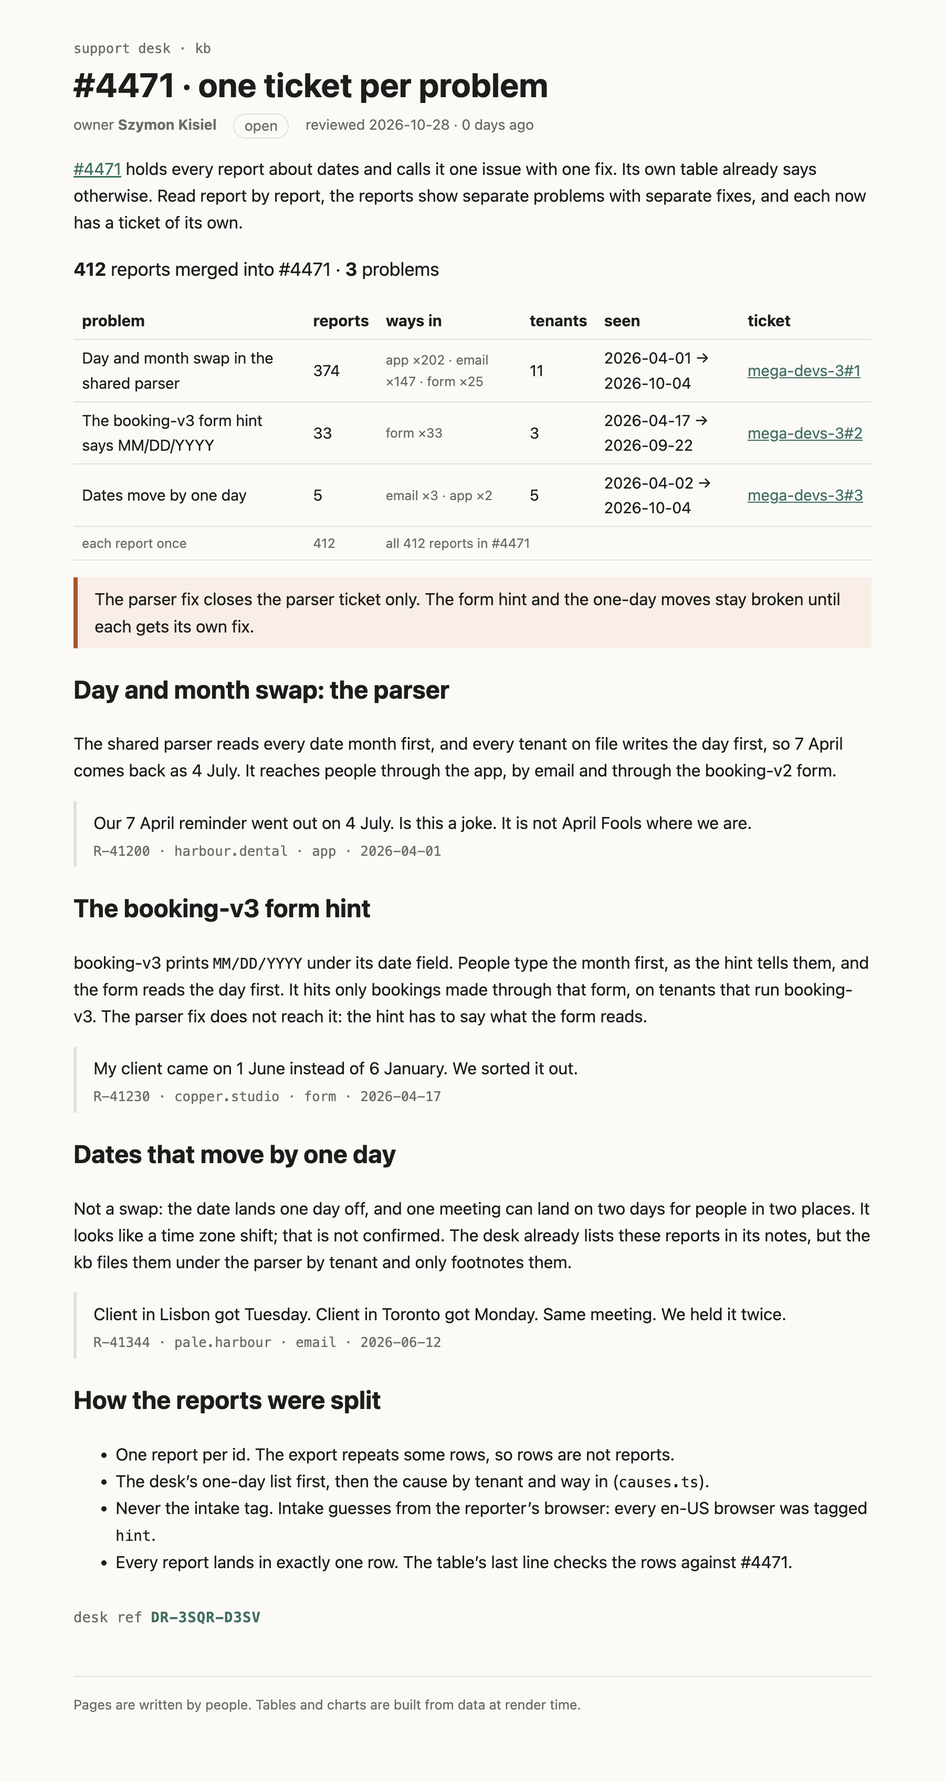
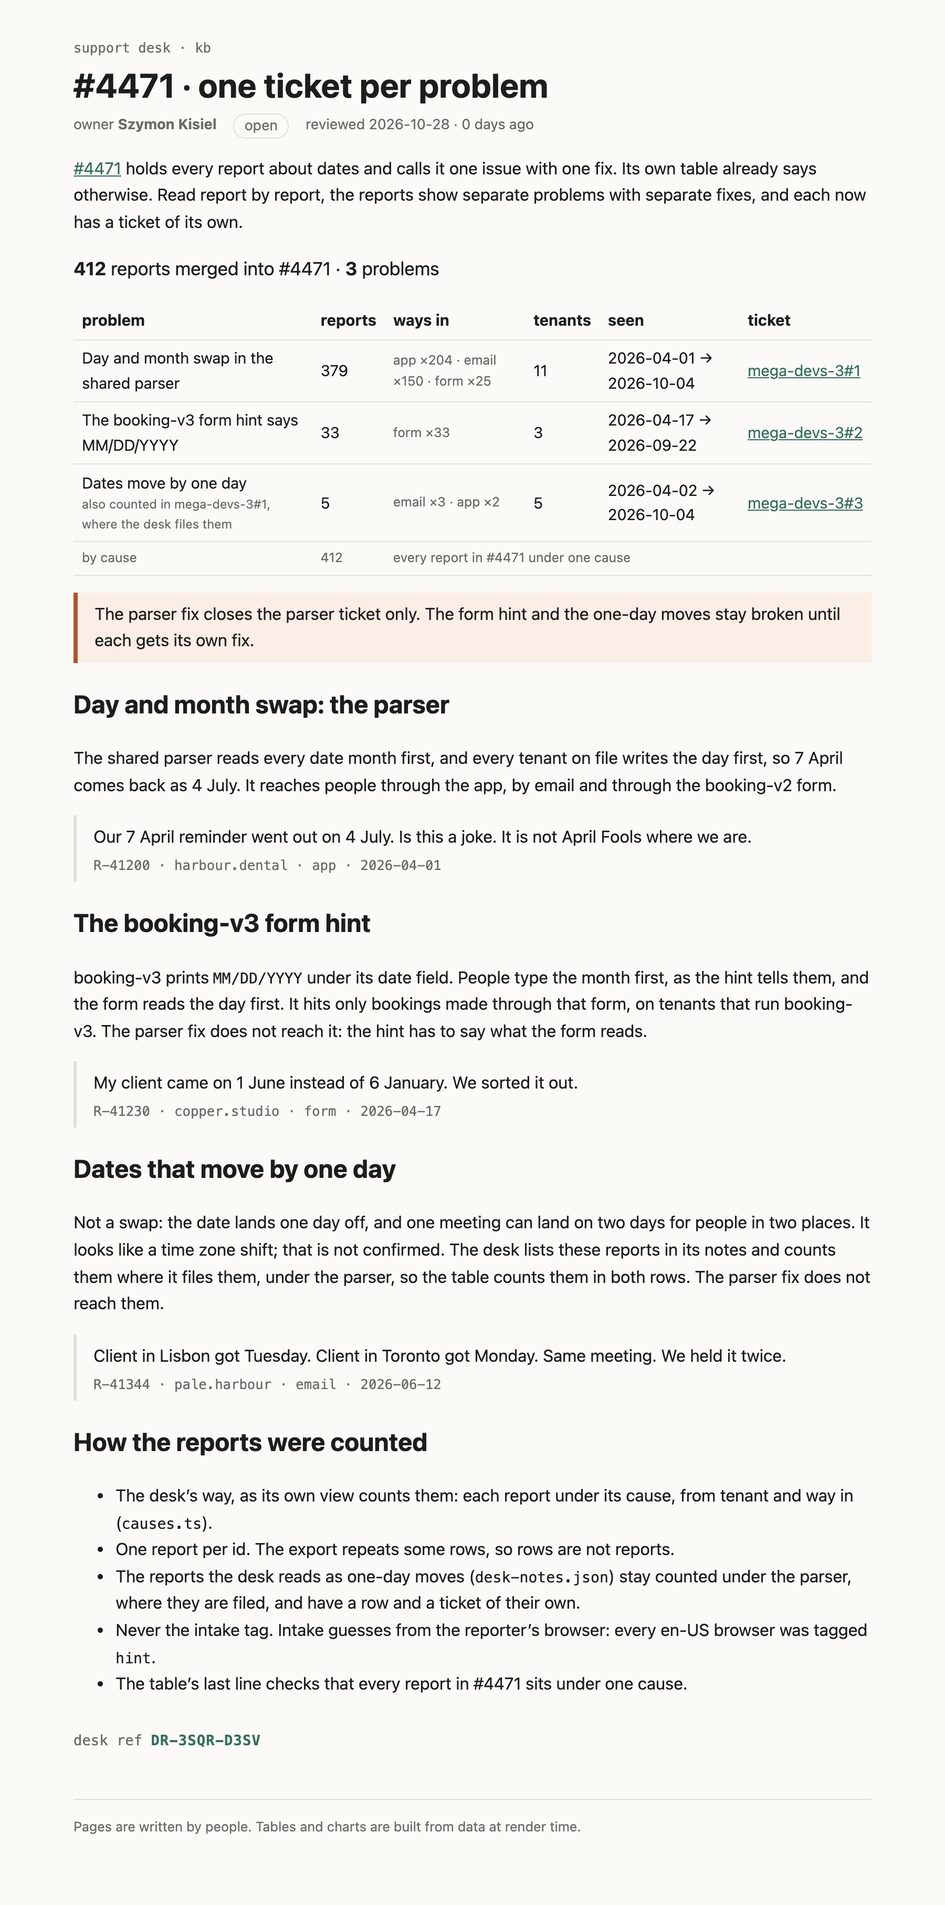
kb page: count the desk's way
The desk counts with its own view (CauseTable as exported): every report under its cause, and the reports it reads as one-day moves stay counted where they are filed, under the parser. The table now shows parser 379, booking-v3 hint 33 and one-day moves 5 (also counted in #1), all computed at render time. Rendered HTML and screenshot rebuilt; signature unchanged.

Changed region(s): [[0.0622, 0.0, 0.9333, 0.9688], [0.7778, 0.1562, 0.9022, 0.2812]]

diff --git a/rendered/kb/incidents/4471/problems.html b/rendered/kb/incidents/4471/problems.html
@@ -6,25 +6,26 @@
     <!--e2jw2j--><!----><title>#4471 · one ticket per problem · support kb</title>
 		<style>:root{--bg: #fbfaf7;--fg: #1d1d1b;--muted: #6b6a66;--line: #e3e0d8;--accent: #2f6f5e;--warn: #b4501f;--warn-bg: #fbeee6;--note-bg: #eef5f2;--mono: ui-monospace, "Cascadia Code", Menlo, monospace}@media(prefers-color-scheme:dark){:root{--bg: #171716;--fg: #ecebe6;--muted: #9c9a93;--line: #34332f;--accent: #6fbfa6;--warn: #f0905d;--warn-bg: #3a2418;--note-bg: #1d2c27}}body{margin:0;background:var(--bg);color:var(--fg);font:16px/1.6 system-ui,sans-serif}.kb table{border-collapse:collapse;width:100%;margin:1rem 0;font-size:.92rem}.kb th,.kb td{border-bottom:1px solid var(--line);padding:.35rem .5rem;text-align:left}.kb code{font-family:var(--mono);font-size:.88em}.kb a{color:var(--accent)}.kb.svelte-e2jw2j{max-width:760px;margin:0 auto;padding:2rem 16px 4rem}.crumb.svelte-e2jw2j{font:.8rem var(--mono);text-decoration:none;color:var(--muted)}h1.svelte-e2jw2j{margin:.25rem 0 .5rem;line-height:1.2}.meta.svelte-e2jw2j{display:flex;flex-wrap:wrap;gap:.5rem 1rem;color:var(--muted);font-size:.85rem;margin:0}.status.svelte-e2jw2j{border:1px solid var(--line);border-radius:99px;padding:0 .6rem}.stale.svelte-e2jw2j{color:var(--warn);font-weight:600}.banner.svelte-e2jw2j{background:var(--warn-bg);color:var(--warn);padding:.6rem 1rem;border-radius:6px}footer.svelte-e2jw2j{margin-top:3rem;color:var(--muted);font-size:.8rem;border-top:1px solid var(--line);padding-top:1rem}
 
-.sum.svelte-1op6c6{font-size:1.1rem}.ways.svelte-1op6c6{color:var(--muted);font-size:.85em}td.svelte-1op6c6:last-child{white-space:nowrap}tfoot.svelte-1op6c6 td:where(.svelte-1op6c6){color:var(--muted);font-size:.85em}.missing.svelte-1op6c6 td:where(.svelte-1op6c6){background:var(--warn-bg);color:var(--warn);font-weight:600}blockquote.svelte-slvyhz{margin:1rem 0;padding:.1rem 1rem;border-left:3px solid var(--line)}blockquote.svelte-slvyhz p:where(.svelte-slvyhz){margin:.4rem 0}.who.svelte-slvyhz{font:.8rem var(--mono);color:var(--muted)}.gone.svelte-slvyhz{color:var(--warn)}.stamp.svelte-1280m42{margin:2rem 0 0;font:.85rem var(--mono);color:var(--muted)}.stamp.svelte-1280m42 b:where(.svelte-1280m42){color:var(--accent);letter-spacing:.04em}.missing.svelte-1280m42{color:var(--warn)}
+.sum.svelte-1op6c6{font-size:1.1rem}.ways.svelte-1op6c6{color:var(--muted);font-size:.85em}.also.svelte-1op6c6{display:block;color:var(--muted);font-size:.8em}td.svelte-1op6c6:last-child{white-space:nowrap}tfoot.svelte-1op6c6 td:where(.svelte-1op6c6){color:var(--muted);font-size:.85em}.missing.svelte-1op6c6 td:where(.svelte-1op6c6){background:var(--warn-bg);color:var(--warn);font-weight:600}blockquote.svelte-slvyhz{margin:1rem 0;padding:.1rem 1rem;border-left:3px solid var(--line)}blockquote.svelte-slvyhz p:where(.svelte-slvyhz){margin:.4rem 0}.who.svelte-slvyhz{font:.8rem var(--mono);color:var(--muted)}.gone.svelte-slvyhz{color:var(--warn)}.stamp.svelte-1280m42{margin:2rem 0 0;font:.85rem var(--mono);color:var(--muted)}.stamp.svelte-1280m42 b:where(.svelte-1280m42){color:var(--accent);letter-spacing:.04em}.missing.svelte-1280m42{color:var(--warn)}
 
 aside.svelte-17bri61{border-left:4px solid var(--accent);padding:.5rem 1rem;margin:1rem 0;background:var(--note-bg)}aside.warn.svelte-17bri61{border-color:var(--warn);background:var(--warn-bg)}
 </style>
 		<link href="../../../_app/immutable/assets/runbook.BhhgOc_n.css" rel="stylesheet" disabled media="(max-width: 0)">
-		<link href="../../../_app/immutable/assets/_page.kYML7QCf.css" rel="stylesheet" disabled media="(max-width: 0)">
+		<link href="../../../_app/immutable/assets/_page.BCj69BPb.css" rel="stylesheet" disabled media="(max-width: 0)">
 		<link href="../../../_app/immutable/assets/Callout.yLErXQDM.css" rel="stylesheet" disabled media="(max-width: 0)">
   </head>
   <body>
     <div style="display: contents"><!--[--><!--[0--><!--[--><!--[--><div class="kb svelte-e2jw2j"><header><a class="crumb svelte-e2jw2j" href="/kb">support desk · kb</a> <h1 class="svelte-e2jw2j">#4471 · one ticket per problem</h1> <p class="meta svelte-e2jw2j"><span>owner <b>Szymon Kisiel</b></span> <span class="status open svelte-e2jw2j">open</span> <span class="svelte-e2jw2j">reviewed 2026-10-28 · 0 days ago</span></p></header> <!--[-1--><!--]--> <main><p><a href="/kb/incidents/4471">#4471</a> holds every report about dates and calls it one issue with one fix.
 Its own table already says otherwise. Read report by report, the reports show separate problems
-with separate fixes, and each now has a ticket of its own.</p> <p class="sum svelte-1op6c6"><strong>412</strong> reports merged into #4471 · <strong>3</strong> problems</p> <table><thead><tr><th>problem</th><th>reports</th><th>ways in</th><th>tenants</th><th>seen</th><th>ticket</th></tr></thead><tbody><!--[--><tr class="svelte-1op6c6"><td class="svelte-1op6c6">Day and month swap in the shared parser</td><td class="svelte-1op6c6">374</td><td class="ways svelte-1op6c6">app ×202 · email ×147 · form ×25</td><td class="svelte-1op6c6">11</td><td class="svelte-1op6c6">2026-04-01 → 2026-10-04</td><td class="svelte-1op6c6"><!--[0--><a href="https://github.com/szymon-kisiel-allegro/mega-devs-3/issues/1">mega-devs-3#1</a><!--]--></td></tr><tr class="svelte-1op6c6"><td class="svelte-1op6c6">The booking-v3 form hint says MM/DD/YYYY</td><td class="svelte-1op6c6">33</td><td class="ways svelte-1op6c6">form ×33</td><td class="svelte-1op6c6">3</td><td class="svelte-1op6c6">2026-04-17 → 2026-09-22</td><td class="svelte-1op6c6"><!--[0--><a href="https://github.com/szymon-kisiel-allegro/mega-devs-3/issues/2">mega-devs-3#2</a><!--]--></td></tr><tr class="svelte-1op6c6"><td class="svelte-1op6c6">Dates move by one day</td><td class="svelte-1op6c6">5</td><td class="ways svelte-1op6c6">email ×3 · app ×2</td><td class="svelte-1op6c6">5</td><td class="svelte-1op6c6">2026-04-02 → 2026-10-04</td><td class="svelte-1op6c6"><!--[0--><a href="https://github.com/szymon-kisiel-allegro/mega-devs-3/issues/3">mega-devs-3#3</a><!--]--></td></tr><!--]--></tbody><tfoot class="svelte-1op6c6"><tr class="svelte-1op6c6"><td class="svelte-1op6c6">each report once</td><td class="svelte-1op6c6">412</td><td colspan="4" class="svelte-1op6c6">all 412 reports in #4471</td></tr></tfoot></table><!----> <aside class="warn svelte-17bri61"><!---->The parser fix closes the parser ticket only. The form hint and the one-day moves stay broken
+with separate fixes, and each now has a ticket of its own.</p> <p class="sum svelte-1op6c6"><strong>412</strong> reports merged into #4471 · <strong>3</strong> problems</p> <table><thead><tr><th>problem</th><th>reports</th><th>ways in</th><th>tenants</th><th>seen</th><th>ticket</th></tr></thead><tbody><!--[--><tr class="svelte-1op6c6"><td class="svelte-1op6c6">Day and month swap in the shared parser <!--[-1--><!--]--></td><td class="svelte-1op6c6">379</td><td class="ways svelte-1op6c6">app ×204 · email ×150 · form ×25</td><td class="svelte-1op6c6">11</td><td class="svelte-1op6c6">2026-04-01 → 2026-10-04</td><td class="svelte-1op6c6"><!--[0--><a href="https://github.com/szymon-kisiel-allegro/mega-devs-3/issues/1">mega-devs-3#1</a><!--]--></td></tr><tr class="svelte-1op6c6"><td class="svelte-1op6c6">The booking-v3 form hint says MM/DD/YYYY <!--[-1--><!--]--></td><td class="svelte-1op6c6">33</td><td class="ways svelte-1op6c6">form ×33</td><td class="svelte-1op6c6">3</td><td class="svelte-1op6c6">2026-04-17 → 2026-09-22</td><td class="svelte-1op6c6"><!--[0--><a href="https://github.com/szymon-kisiel-allegro/mega-devs-3/issues/2">mega-devs-3#2</a><!--]--></td></tr><tr class="svelte-1op6c6"><td class="svelte-1op6c6">Dates move by one day <!--[0--><span class="also svelte-1op6c6">also counted in mega-devs-3#1, where the desk files them</span><!--]--></td><td class="svelte-1op6c6">5</td><td class="ways svelte-1op6c6">email ×3 · app ×2</td><td class="svelte-1op6c6">5</td><td class="svelte-1op6c6">2026-04-02 → 2026-10-04</td><td class="svelte-1op6c6"><!--[0--><a href="https://github.com/szymon-kisiel-allegro/mega-devs-3/issues/3">mega-devs-3#3</a><!--]--></td></tr><!--]--></tbody><tfoot class="svelte-1op6c6"><tr class="svelte-1op6c6"><td class="svelte-1op6c6">by cause</td><td class="svelte-1op6c6">412</td><td colspan="4" class="svelte-1op6c6">every report in #4471 under one cause</td></tr></tfoot></table><!----> <aside class="warn svelte-17bri61"><!---->The parser fix closes the parser ticket only. The form hint and the one-day moves stay broken
 until each gets its own fix.<!----></aside><!----> <h2>Day and month swap: the parser</h2> <p>The shared parser reads every date month first, and every tenant on file writes the day first, so
 7 April comes back as 4 July. It reaches people through the app, by email and through the
 booking-v2 form.</p> <!--[0--><blockquote class="svelte-slvyhz"><p class="svelte-slvyhz">Our 7 April reminder went out on 4 July. Is this a joke. It is not April Fools where we are.</p> <p class="who svelte-slvyhz">R-41200 · harbour.dental · app · 2026-04-01</p></blockquote><!--]--><!----> <h2>The booking-v3 form hint</h2> <p>booking-v3 prints <code>MM/DD/YYYY</code> under its date field. People type the month first, as the hint
 tells them, and the form reads the day first. It hits only bookings made through that form, on
 tenants that run booking-v3. The parser fix does not reach it: the hint has to say what the form
 reads.</p> <!--[0--><blockquote class="svelte-slvyhz"><p class="svelte-slvyhz">My client came on 1 June instead of 6 January. We sorted it out.</p> <p class="who svelte-slvyhz">R-41230 · copper.studio · form · 2026-04-17</p></blockquote><!--]--><!----> <h2>Dates that move by one day</h2> <p>Not a swap: the date lands one day off, and one meeting can land on two days for people in two
-places. It looks like a time zone shift; that is not confirmed. The desk already lists these
-reports in its notes, but the kb files them under the parser by tenant and only footnotes them.</p> <!--[0--><blockquote class="svelte-slvyhz"><p class="svelte-slvyhz">Client in Lisbon got Tuesday. Client in Toronto got Monday. Same meeting. We held it twice.</p> <p class="who svelte-slvyhz">R-41344 · pale.harbour · email · 2026-06-12</p></blockquote><!--]--><!----> <h2>How the reports were split</h2> <ul><li>One report per id. The export repeats some rows, so rows are not reports.</li> <li>The desk’s one-day list first, then the cause by tenant and way in (<code>causes.ts</code>).</li> <li>Never the intake tag. Intake guesses from the reporter’s browser: every en-US browser was tagged <code>hint</code>.</li> <li>Every report lands in exactly one row. The table’s last line checks the rows against #4471.</li></ul> <!--[0--><p class="stamp svelte-1280m42">desk ref <b class="svelte-1280m42">DR-3SQR-D3SV</b></p><!--]--><!----><!----></main> <footer class="svelte-e2jw2j">Pages are written by people. Tables and charts are built from data at render time.</footer></div><!--]--><!----><!--]--><!--]--> <!--[-1--><!--]--><!--]--></div>
+places. It looks like a time zone shift; that is not confirmed. The desk lists these reports in its
+notes and counts them where it files them, under the parser, so the table counts them in both rows.
+The parser fix does not reach them.</p> <!--[0--><blockquote class="svelte-slvyhz"><p class="svelte-slvyhz">Client in Lisbon got Tuesday. Client in Toronto got Monday. Same meeting. We held it twice.</p> <p class="who svelte-slvyhz">R-41344 · pale.harbour · email · 2026-06-12</p></blockquote><!--]--><!----> <h2>How the reports were counted</h2> <ul><li>The desk’s way, as its own view counts them: each report under its cause, from tenant and way in (<code>causes.ts</code>).</li> <li>One report per id. The export repeats some rows, so rows are not reports.</li> <li>The reports the desk reads as one-day moves (<code>desk-notes.json</code>) stay counted under the parser, where they are filed, and have a row and a ticket of their own.</li> <li>Never the intake tag. Intake guesses from the reporter’s browser: every en-US browser was tagged <code>hint</code>.</li> <li>The table’s last line checks that every report in #4471 sits under one cause.</li></ul> <!--[0--><p class="stamp svelte-1280m42">desk ref <b class="svelte-1280m42">DR-3SQR-D3SV</b></p><!--]--><!----><!----></main> <footer class="svelte-e2jw2j">Pages are written by people. Tables and charts are built from data at render time.</footer></div><!--]--><!----><!--]--><!--]--> <!--[-1--><!--]--><!--]--></div>
   </body>
 </html>

diff --git a/src/lib/kb/problems.ts b/src/lib/kb/problems.ts
@@ -1,16 +1,12 @@
-// One problem per report, for a ticket that merged reports with different causes. The desk's own
-// one-day list (desk-notes.json) comes first: those dates move by a day, they are not swapped.
-// Every other report goes by its cause, from its tenant and way in (causes.ts). Never by intake tag.
-import { causeOf, type Cause, type Report, type Tenant } from '#lib/kb/causes';
+// The problems inside a ticket that merged reports with different causes, counted the desk's way,
+// as its own view (CauseTable) counts: every report under its cause, from its tenant and way in
+// (causes.ts). The reports the desk reads differently (desk-notes.json) stay counted where they are
+// filed, and their reading gets a row of its own. Never by intake tag.
+import { groupByCause, type CauseGroup, type Report, type Tenant } from '#lib/kb/causes';
 
-export type Problem = Cause | 'one-day' | 'unplaced';
+export type Problem = CauseGroup['cause'] | 'one-day';
 
-export function problemOf(r: Report, t: Tenant | undefined, oneDayMove: readonly string[]): Problem {
-  if (oneDayMove.includes(r.id)) return 'one-day';
-  return causeOf(r, t) ?? 'unplaced';
-}
-
-export type ProblemGroup = {
+export type ProblemRow = {
   problem: Problem;
   reports: Report[];
   // Way in → count.
@@ -18,29 +14,34 @@ export type ProblemGroup = {
   tenants: number;
   firstSeen: string;
   lastSeen: string;
+  // For a reading the desk footnotes: the causes its reports are also counted under.
+  alsoUnder: CauseGroup['cause'][];
 };
 
-export function splitByProblem(
-  reports: Report[],
+function row(problem: Problem, rs: Report[], alsoUnder: CauseGroup['cause'][] = []): ProblemRow {
+  const days = rs.map((r) => r.receivedAt.slice(0, 10)).sort();
+  return {
+    problem,
+    reports: rs,
+    channels: rs.reduce<Record<string, number>>((n, r) => ({ ...n, [r.channel]: (n[r.channel] ?? 0) + 1 }), {}),
+    tenants: new Set(rs.map((r) => r.tenant)).size,
+    firstSeen: days[0],
+    lastSeen: days[days.length - 1],
+    alsoUnder,
+  };
+}
+
+export function problemRows(
+  merged: Report[],
   tenantOf: (r: Report) => Tenant | undefined,
   oneDayMove: readonly string[],
-): ProblemGroup[] {
-  const byProblem = new Map<Problem, Report[]>();
-  for (const r of reports) {
-    const p = problemOf(r, tenantOf(r), oneDayMove);
-    byProblem.set(p, [...(byProblem.get(p) ?? []), r]);
+): ProblemRow[] {
+  const groups = groupByCause(merged, tenantOf);
+  const rows = groups.map((g) => row(g.cause, g.reports));
+  const moved = merged.filter((r) => oneDayMove.includes(r.id));
+  if (moved.length) {
+    const under = groups.filter((g) => g.reports.some((r) => oneDayMove.includes(r.id))).map((g) => g.cause);
+    rows.push(row('one-day', moved, under));
   }
-  return [...byProblem.entries()]
-    .map(([problem, rs]) => {
-      const days = rs.map((r) => r.receivedAt.slice(0, 10)).sort();
-      return {
-        problem,
-        reports: rs,
-        channels: rs.reduce<Record<string, number>>((n, r) => ({ ...n, [r.channel]: (n[r.channel] ?? 0) + 1 }), {}),
-        tenants: new Set(rs.map((r) => r.tenant)).size,
-        firstSeen: days[0],
-        lastSeen: days[days.length - 1],
-      };
-    })
-    .sort((a, b) => b.reports.length - a.reports.length);
+  return rows;
 }

diff --git a/src/lib/kb/ProblemTable.svelte b/src/lib/kb/ProblemTable.svelte
@@ -3,14 +3,14 @@
   import notes from '#lib/data/desk-notes.json';
   import { uniqueById, type Report } from '#lib/kb/causes';
   import { tenantOf } from '#lib/kb/locales';
-  import { splitByProblem, type Problem } from '#lib/kb/problems';
+  import { problemRows, type Problem } from '#lib/kb/problems';
 
   type Ticket = { problem: Problem; title: string; ref: string; href: string };
   let { ticket, tickets }: { ticket: number; tickets: Ticket[] } = $props();
 
   const merged = $derived(uniqueById(reports as Report[]).filter((r) => r.mergedInto === ticket));
-  const groups = $derived(splitByProblem(merged, tenantOf, notes.oneDayMove));
-  const counted = $derived(groups.reduce((n, g) => n + g.reports.length, 0));
+  const rows = $derived(problemRows(merged, tenantOf, notes.oneDayMove));
+  const byCause = $derived(rows.filter((g) => !g.alsoUnder.length).reduce((n, g) => n + g.reports.length, 0));
   const ticketFor = (p: Problem) => tickets.find((t) => t.problem === p);
   const ways = (c: Record<string, number>) =>
     Object.entries(c)
@@ -21,8 +21,8 @@
 
 <p class="sum">
   <strong>{merged.length}</strong> reports merged into #{ticket} ·
-  <strong>{groups.length}</strong>
-  {groups.length === 1 ? 'problem' : 'problems'}
+  <strong>{rows.length}</strong>
+  {rows.length === 1 ? 'problem' : 'problems'}
 </p>
 
 <table>
@@ -30,10 +30,15 @@
     <tr><th>problem</th><th>reports</th><th>ways in</th><th>tenants</th><th>seen</th><th>ticket</th></tr>
   </thead>
   <tbody>
-    {#each groups as g (g.problem)}
+    {#each rows as g (g.problem)}
       {@const t = ticketFor(g.problem)}
       <tr class:missing={!t}>
-        <td>{t?.title ?? g.problem}</td>
+        <td>
+          {t?.title ?? g.problem}
+          {#if g.alsoUnder.length}
+            <span class="also">also counted in {g.alsoUnder.map((c) => ticketFor(c)?.ref ?? c).join(', ')}, where the desk files them</span>
+          {/if}
+        </td>
         <td>{g.reports.length}</td>
         <td class="ways">{ways(g.channels)}</td>
         <td>{g.tenants}</td>
@@ -43,11 +48,11 @@
     {/each}
   </tbody>
   <tfoot>
-    <tr class:missing={counted !== merged.length}>
-      <td>each report once</td>
-      <td>{counted}</td>
+    <tr class:missing={byCause !== merged.length}>
+      <td>by cause</td>
+      <td>{byCause}</td>
       <td colspan="4">
-        {counted === merged.length ? `all ${merged.length} reports in #${ticket}` : `${merged.length - counted} reports in #${ticket} not counted`}
+        {byCause === merged.length ? `every report in #${ticket} under one cause` : `${merged.length - byCause} reports in #${ticket} under no cause`}
       </td>
     </tr>
   </tfoot>
@@ -56,6 +61,7 @@
 <style>
   .sum { font-size: 1.1rem; }
   .ways { color: var(--muted); font-size: 0.85em; }
+  .also { display: block; color: var(--muted); font-size: 0.8em; }
   td:last-child { white-space: nowrap; }
   tfoot td { color: var(--muted); font-size: 0.85em; }
   .missing td { background: var(--warn-bg); color: var(--warn); font-weight: 600; }

diff --git a/rendered/kb.html b/rendered/kb.html
@@ -12,7 +12,7 @@
 
 aside.svelte-17bri61{border-left:4px solid var(--accent);padding:.5rem 1rem;margin:1rem 0;background:var(--note-bg)}aside.warn.svelte-17bri61{border-color:var(--warn);background:var(--warn-bg)}
 
-.sum.svelte-1op6c6{font-size:1.1rem}.ways.svelte-1op6c6{color:var(--muted);font-size:.85em}td.svelte-1op6c6:last-child{white-space:nowrap}tfoot.svelte-1op6c6 td:where(.svelte-1op6c6){color:var(--muted);font-size:.85em}.missing.svelte-1op6c6 td:where(.svelte-1op6c6){background:var(--warn-bg);color:var(--warn);font-weight:600}blockquote.svelte-slvyhz{margin:1rem 0;padding:.1rem 1rem;border-left:3px solid var(--line)}blockquote.svelte-slvyhz p:where(.svelte-slvyhz){margin:.4rem 0}.who.svelte-slvyhz{font:.8rem var(--mono);color:var(--muted)}.gone.svelte-slvyhz{color:var(--warn)}.stamp.svelte-1280m42{margin:2rem 0 0;font:.85rem var(--mono);color:var(--muted)}.stamp.svelte-1280m42 b:where(.svelte-1280m42){color:var(--accent);letter-spacing:.04em}.missing.svelte-1280m42{color:var(--warn)}
+.sum.svelte-1op6c6{font-size:1.1rem}.ways.svelte-1op6c6{color:var(--muted);font-size:.85em}.also.svelte-1op6c6{display:block;color:var(--muted);font-size:.8em}td.svelte-1op6c6:last-child{white-space:nowrap}tfoot.svelte-1op6c6 td:where(.svelte-1op6c6){color:var(--muted);font-size:.85em}.missing.svelte-1op6c6 td:where(.svelte-1op6c6){background:var(--warn-bg);color:var(--warn);font-weight:600}blockquote.svelte-slvyhz{margin:1rem 0;padding:.1rem 1rem;border-left:3px solid var(--line)}blockquote.svelte-slvyhz p:where(.svelte-slvyhz){margin:.4rem 0}.who.svelte-slvyhz{font:.8rem var(--mono);color:var(--muted)}.gone.svelte-slvyhz{color:var(--warn)}.stamp.svelte-1280m42{margin:2rem 0 0;font:.85rem var(--mono);color:var(--muted)}.stamp.svelte-1280m42 b:where(.svelte-1280m42){color:var(--accent);letter-spacing:.04em}.missing.svelte-1280m42{color:var(--warn)}
 
 .try.svelte-gq0h2h{display:grid;grid-template-columns:repeat(auto-fit,minmax(220px,1fr));gap:.75rem;margin:1rem 0}fieldset.svelte-gq0h2h{display:grid;gap:.4rem;border:1px solid var(--line);border-radius:6px}.verdict.svelte-gq0h2h{grid-column:1 / -1;margin:0;font-weight:600;color:var(--muted)}.dup.svelte-gq0h2h{color:var(--accent);font-weight:600}
 </style>
@@ -20,7 +20,7 @@ aside.svelte-17bri61{border-left:4px solid var(--accent);padding:.5rem 1rem;marg
 		<link href="./_app/immutable/assets/runbook.BhhgOc_n.css" rel="stylesheet" disabled media="(max-width: 0)">
 		<link href="./_app/immutable/assets/_page.hI2H_0Om.css" rel="stylesheet" disabled media="(max-width: 0)">
 		<link href="./_app/immutable/assets/Callout.yLErXQDM.css" rel="stylesheet" disabled media="(max-width: 0)">
-		<link href="./_app/immutable/assets/_page.kYML7QCf.css" rel="stylesheet" disabled media="(max-width: 0)">
+		<link href="./_app/immutable/assets/_page.BCj69BPb.css" rel="stylesheet" disabled media="(max-width: 0)">
 		<link href="./_app/immutable/assets/_page.C3mwiGDj.css" rel="stylesheet" disabled media="(max-width: 0)">
   </head>
   <body>

diff --git a/rendered/_app/immutable/assets/_page.BCj69BPb.css b/rendered/_app/immutable/assets/_page.BCj69BPb.css
@@ -1,0 +1,1 @@
+.sum.svelte-1op6c6{font-size:1.1rem}.ways.svelte-1op6c6{color:var(--muted);font-size:.85em}.also.svelte-1op6c6{display:block;color:var(--muted);font-size:.8em}td.svelte-1op6c6:last-child{white-space:nowrap}tfoot.svelte-1op6c6 td:where(.svelte-1op6c6){color:var(--muted);font-size:.85em}.missing.svelte-1op6c6 td:where(.svelte-1op6c6){background:var(--warn-bg);color:var(--warn);font-weight:600}blockquote.svelte-slvyhz{margin:1rem 0;padding:.1rem 1rem;border-left:3px solid var(--line)}blockquote.svelte-slvyhz p:where(.svelte-slvyhz){margin:.4rem 0}.who.svelte-slvyhz{font:.8rem var(--mono);color:var(--muted)}.gone.svelte-slvyhz{color:var(--warn)}.stamp.svelte-1280m42{margin:2rem 0 0;font:.85rem var(--mono);color:var(--muted)}.stamp.svelte-1280m42 b:where(.svelte-1280m42){color:var(--accent);letter-spacing:.04em}.missing.svelte-1280m42{color:var(--warn)}
